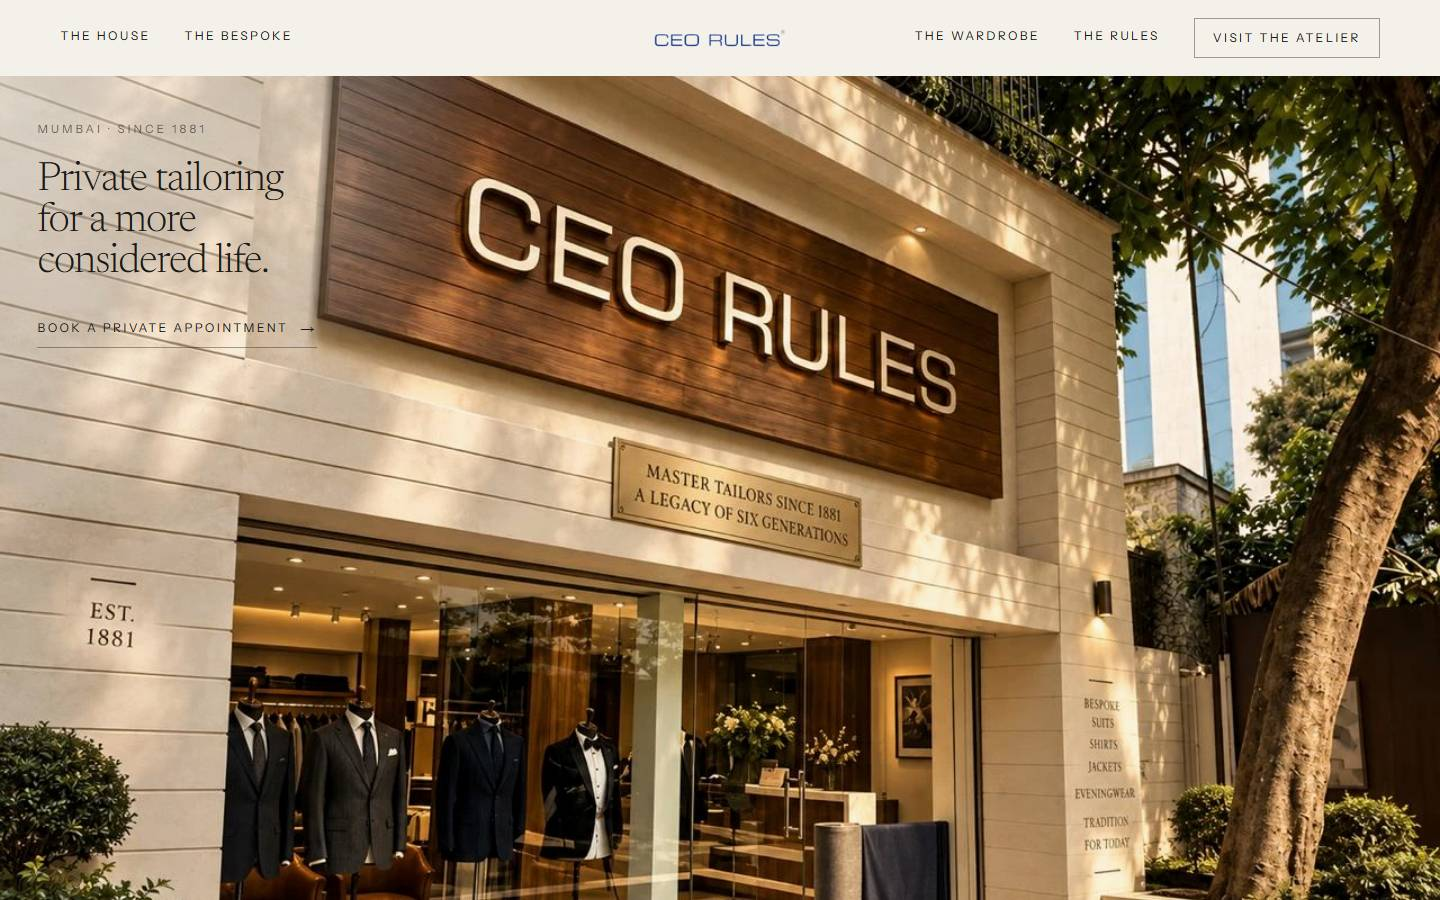
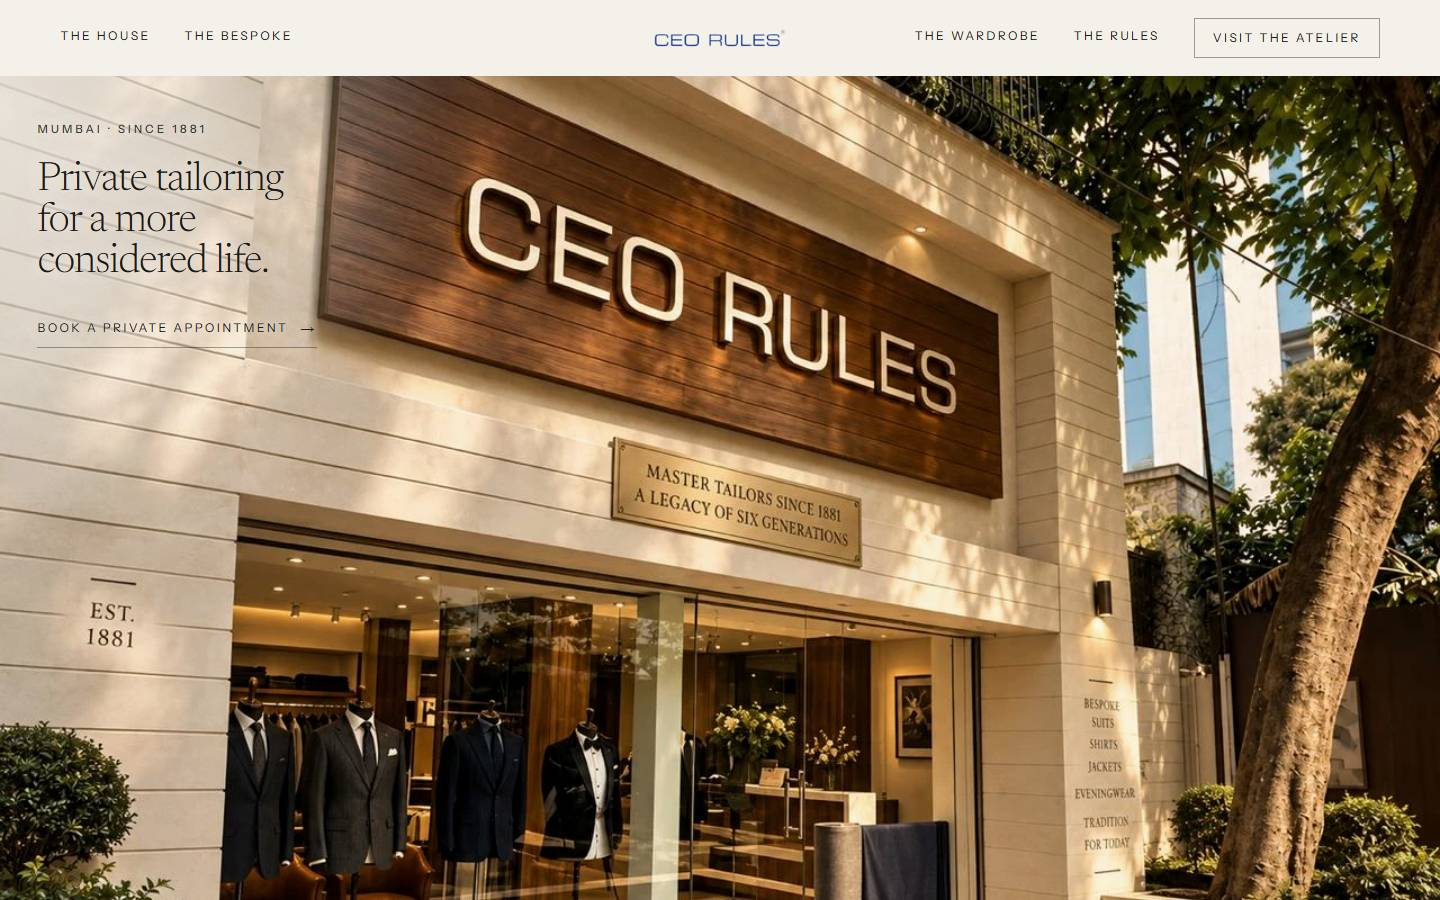
Fix type legibility over the hero and cloth photographs
Measured WCAG contrast against the actual photo pixels behind each text
element: the hero kicker (3.7:1), cloth kicker (2.1:1) and mill names
(3.2:1) failed 4.5:1 at their worst pixels.

- Small text raised to near-full opacity
- Tighter, stronger local tone behind each text column only (lift on
  the storefront wall, deepening on the cloth shelves), no full overlay
- Soft ground-coloured halo so letterforms part from tree shadow and
  patterned cloth
- Mill names separated by space, not dots that dangled at line ends

Every element now clears 4.5:1 at its worst 5% of pixels (min 6.9:1).

Changed region(s): [[0.0, 0.1244, 0.1875, 0.4667], [0.0, 0.4978, 0.0312, 0.5289], [0.0, 0.0933, 0.0312, 0.1244]]

diff --git a/components/sections/Cloth.tsx b/components/sections/Cloth.tsx
@@ -30,28 +30,21 @@ export function Cloth() {
           audit={c.audit}
         />
       </div>
-      <div className="relative z-10 w-full px-[var(--gutter)] pb-[clamp(56px,9vh,96px)] pt-[clamp(40px,6vh,56px)] lg:max-w-[calc(var(--gutter)+460px)] lg:py-[clamp(96px,14vh,160px)]">
-        <p className="kicker !mb-[26px] text-[rgba(244,241,234,.72)]">{c.kicker}</p>
+      <div className="relative z-10 w-full px-[var(--gutter)] lg:halo-cream pb-[clamp(56px,9vh,96px)] pt-[clamp(40px,6vh,56px)] lg:max-w-[calc(var(--gutter)+460px)] lg:py-[clamp(96px,14vh,160px)]">
+        <p className="kicker !mb-[26px] text-[rgba(244,241,234,.92)]">{c.kicker}</p>
         <Reveal
           as="h2"
           className="max-w-[12ch] font-serif text-[clamp(36px,9vw,48px)] font-light leading-[1.02] tracking-[-0.025em] lg:text-[clamp(40px,3.8vw,64px)]"
         >
           {c.title}
         </Reveal>
-        <p className="body mt-[clamp(22px,3.4vh,34px)] max-w-[40ch] text-[rgba(244,241,234,.8)]">{c.body}</p>
+        <p className="body mt-[clamp(22px,3.4vh,34px)] max-w-[40ch] text-[rgba(244,241,234,.92)]">{c.body}</p>
 
         <div className="mt-[clamp(36px,6vh,64px)] border-t border-[rgba(244,241,234,.22)] pt-6">
-          <p className="label mb-4 !text-[11px] text-[rgba(244,241,234,.62)]">{c.millsLabel}</p>
-          <ul className="flex flex-wrap gap-x-5 gap-y-2 text-[clamp(14px,1.05vw,15.5px)] leading-[1.6] tracking-[0.04em] text-[rgba(244,241,234,.9)]">
-            {mills.map((m, i) => (
-              <li key={m.name} className="flex items-center gap-5">
-                {m.name}
-                {i < mills.length - 1 ? (
-                  <span aria-hidden className="text-[rgba(244,241,234,.4)]">
-                    ·
-                  </span>
-                ) : null}
-              </li>
+          <p className="label mb-4 !text-[11px] text-[rgba(244,241,234,.82)]">{c.millsLabel}</p>
+          <ul className="flex flex-wrap gap-x-7 gap-y-2 text-[clamp(14px,1.05vw,15.5px)] leading-[1.6] tracking-[0.04em] text-cream">
+            {mills.map((m) => (
+              <li key={m.name}>{m.name}</li>
             ))}
           </ul>
         </div>

diff --git a/components/Photo.tsx b/components/Photo.tsx
@@ -31,8 +31,8 @@ export const SCRIMS = {
   reel: "linear-gradient(0deg, rgba(14,13,11,.8) 0%, rgba(14,13,11,0) 48%)",
   // Localised treatments (brief §5): a soft pool of tone behind the type only,
   // never a wash over the photograph.
-  "lift-tl": "radial-gradient(ellipse 34% 58% at 0% 0%, rgba(244,241,234,.62) 0%, rgba(244,241,234,.32) 55%, rgba(244,241,234,0) 100%)",
-  "deepen-l": "radial-gradient(ellipse 46% 88% at 0% 58%, rgba(14,13,11,.78) 0%, rgba(14,13,11,.5) 48%, rgba(14,13,11,0) 100%)",
+  "lift-tl": "radial-gradient(ellipse 30% 64% at 0% 4%, rgba(244,241,234,.8) 0%, rgba(244,241,234,.58) 46%, rgba(244,241,234,.16) 78%, rgba(244,241,234,0) 100%)",
+  "deepen-l": "linear-gradient(90deg, rgba(14,13,11,.8) 0%, rgba(14,13,11,.7) 26%, rgba(14,13,11,.36) 38%, rgba(14,13,11,0) 50%)",
   "deepen-b": "radial-gradient(ellipse 110% 55% at 30% 100%, rgba(14,13,11,.7) 0%, rgba(14,13,11,.25) 60%, rgba(14,13,11,0) 100%)",
 } as const;
 

diff --git a/components/sections/Hero.tsx b/components/sections/Hero.tsx
@@ -36,8 +36,8 @@ export function Hero() {
         />
       </div>
 
-      <div className="relative z-10 px-[var(--gutter)] pb-[clamp(48px,8vh,72px)] pt-[clamp(32px,5vh,44px)] lg:absolute lg:left-[clamp(28px,2.6vw,56px)] lg:top-[clamp(32px,5vh,64px)] lg:w-[19.5vw] lg:p-0">
-        <Reveal onLoad as="p" className="kicker !mb-[22px] text-[rgba(28,26,23,.62)]">
+      <div className="relative z-10 px-[var(--gutter)] lg:halo-ink pb-[clamp(48px,8vh,72px)] pt-[clamp(32px,5vh,44px)] lg:absolute lg:left-[clamp(28px,2.6vw,56px)] lg:top-[clamp(32px,5vh,64px)] lg:w-[19.5vw] lg:p-0">
+        <Reveal onLoad as="p" className="kicker !mb-[22px] text-[rgba(28,26,23,.86)] lg:font-medium">
           {h.kicker}
         </Reveal>
         <Reveal

diff --git a/app/globals.css b/app/globals.css
@@ -228,6 +228,21 @@
     color: var(--cream);
   }
 
+  /* ---- Type over photography ----
+     A soft halo the colour of the ground, so letterforms part from busy
+     texture (tree shadow, patterned cloth) without a box or a full overlay. */
+  .halo-ink {
+    text-shadow:
+      0 0 1px rgba(244, 241, 234, 0.55),
+      0 0 16px rgba(244, 241, 234, 0.85),
+      0 0 32px rgba(244, 241, 234, 0.5);
+  }
+  .halo-cream {
+    text-shadow:
+      0 1px 2px rgba(14, 13, 11, 0.45),
+      0 0 18px rgba(14, 13, 11, 0.6);
+  }
+
   /* ---- Grounds ---- */
   .on-dark {
     color: var(--cream);
